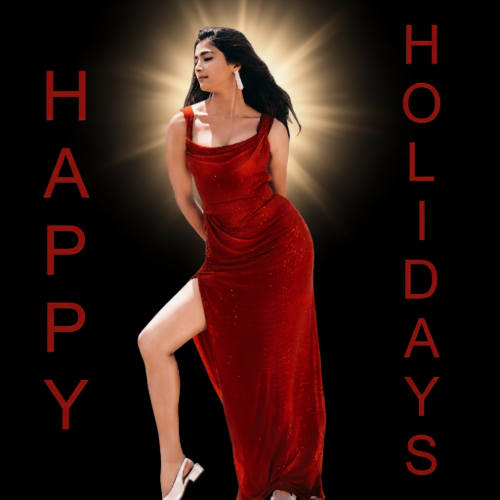
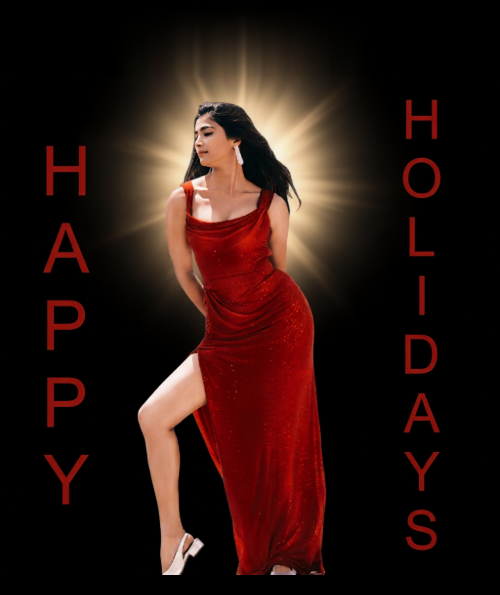
Extend HAP Dark and Light images with seamless top halo fade and bottom heel breathing space

diff --git a/src/components/AyudhaPoojaArt.jsx b/src/components/AyudhaPoojaArt.jsx
@@ -6,7 +6,7 @@ export default function AyudhaPoojaArt({ isDarkMode }) {
   const imageSrc = isDarkMode ? '/HAP Dark mode.png' : '/HAP Light mode.png';
 
   return (
-    <div className="relative w-full max-w-[260px] h-48 sm:h-52 flex flex-col items-center justify-center select-none my-auto">
+    <div className="relative w-full max-w-[270px] h-52 sm:h-56 flex flex-col items-center justify-center select-none my-auto">
       {/* Floating Gentle Festive Sparkles */}
       {[
         { top: '8%', left: '12%', delay: 0 },
